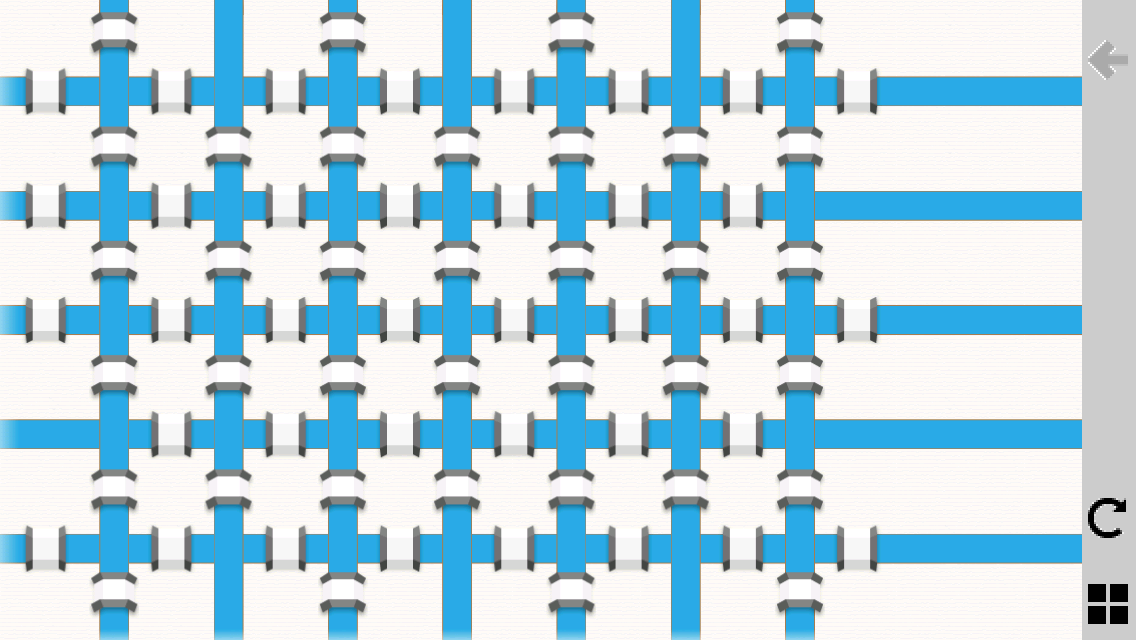
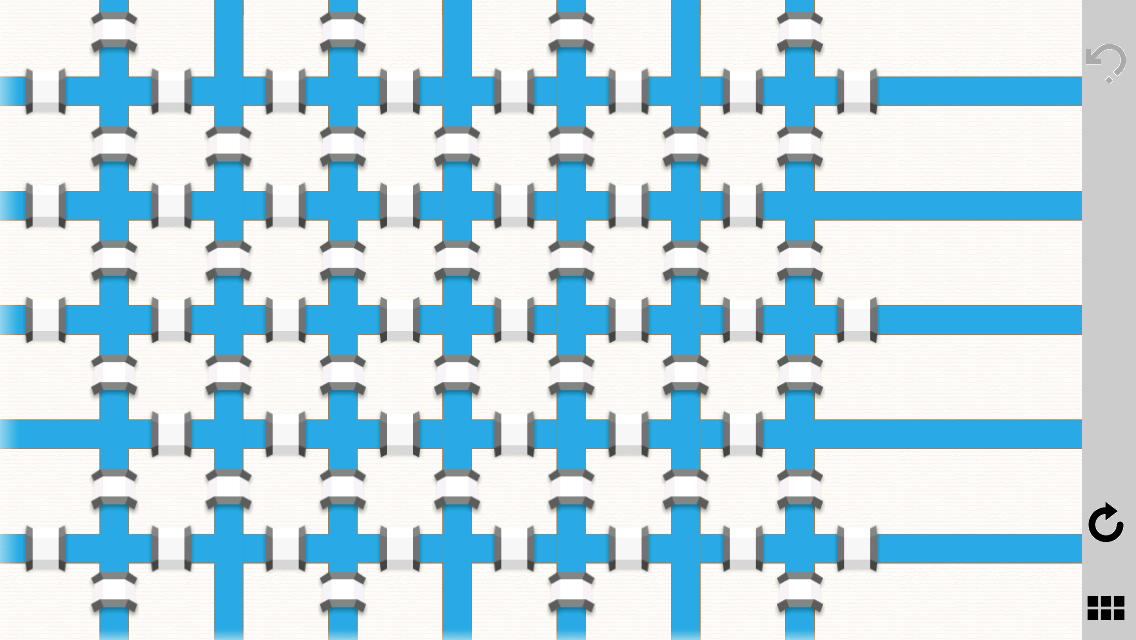
Added river joints for the full of islands level.

Changed region(s): [[0.9551, 0.9062, 1.0, 1.0], [0.9551, 0.7812, 1.0, 0.8438], [0.9551, 0.0625, 1.0, 0.125]]

diff --git a/bridges2/BridgeColors.h b/bridges2/BridgeColors.h
@@ -68,7 +68,7 @@ static int const TILE_COUNT = 28;
  * This variable controls debug drawing.  Change it to true
  * to see the tile grid and the boxes for each sprite.
  */
-static bool const DEBUG_DRAW = true;
+static bool const DEBUG_DRAW = false;
 
 /**
  * Each river is drawn with a set of one tile sprites that we
